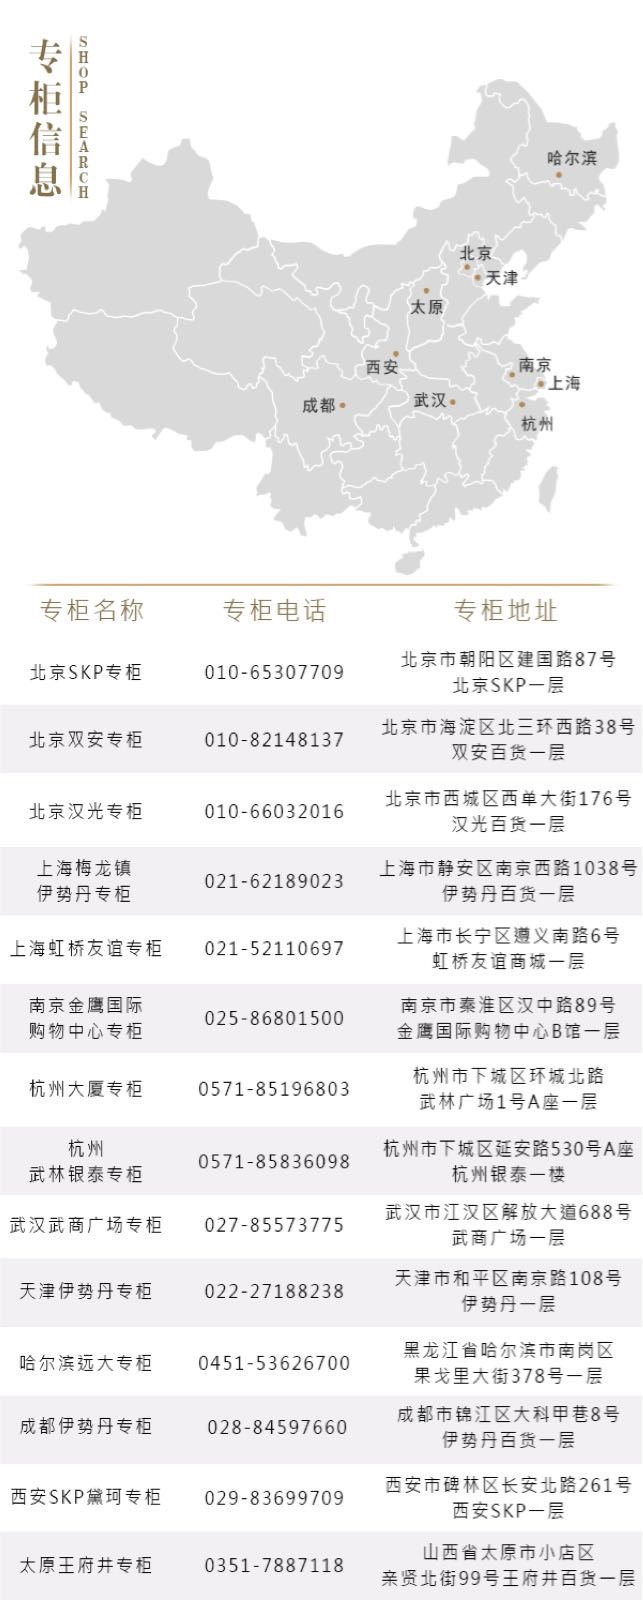
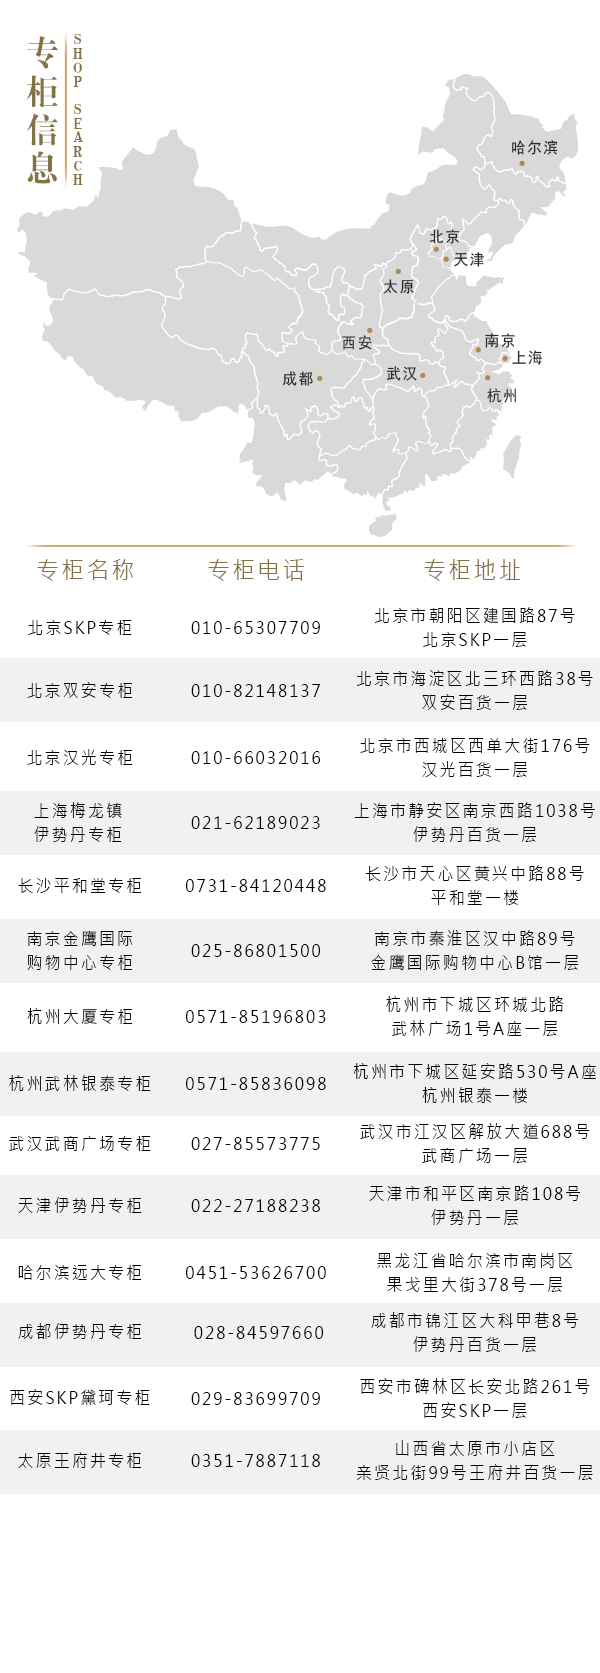
no message

diff --git a/www/web/shop.html b/www/web/shop.html
@@ -116,6 +116,9 @@
                 <div id="sh1" style="cursor:pointer">>西安SKP黛珂专柜</div>
             </div>
         -->
+		<div id="cs" class="point_color" style="position:absolute;top: 516px;left: 440px;border-radius: 15px;width: 8px;height: 8px;">
+
+		</div>
 
 		<div style="position:absolute;width:298px;top:210px;left:653px;background-color:rgb(245,245,245)">
 			<div id="share" style="width:298px;padding:5px 0">
@@ -153,6 +156,9 @@
 					<div id="xa_btn" style="border-radius: 15px;border: 1px solid rgb(201,201,201);padding: 3px 8px;float:left;margin-right: 7px;cursor:pointer;margin-top:10px">
 						西安
 					</div>
+					<div id="cs_btn" style="border-radius: 15px;border: 1px solid rgb(201,201,201);padding: 3px 8px;float:left;margin-right: 7px;cursor:pointer;margin-top:10px">
+						长沙
+					</div>
 					<div style="clear:both"></div>
 					<div id='address' style='padding:5px;text-align: left;line-height: 200%;font-size:12px;margin:5px 0;max-height: 250px;overflow: auto;'><div style='border-bottom:1px solid rgb(201,201,201);padding:5px 0'>北京SKP专柜<br>北京市朝阳区建国路87号北京SKP一层<br>电话：010-65307709</div><div style='border-bottom:1px solid rgb(201,201,201);padding:5px 0'>北京双安专柜<br>北京市海淀区北三环西路38号双安百货一层<br>电话：010-82148137</div><div style='padding:5px 0'>北京汉光专柜<br>北京市西城区西单大街176号汉光百货一层<br>电话：010-66032016</div>
 					</div>
@@ -183,6 +189,7 @@
                 $("#heb").css("background","black");
                 $("#cd").css("background","black");
                 $("#xa").css("background","black");
+                $("#cs").css("background","black");
 				$("#detail").append("<div id='address' style='padding:5px;text-align: left;line-height: 200%;font-size:12px;margin:5px 0;max-height: 250px;overflow: auto;'><div style='border-bottom:1px solid rgb(201,201,201);padding:5px 0'>北京SKP专柜<br>北京市朝阳区建国路87号北京SKP一层<br>电话：010-65307709</div><div style='border-bottom:1px solid rgb(201,201,201);padding:5px 0'>北京双安专柜<br>北京市海淀区北三环西路38号双安百货一层<br>电话：010-82148137</div><div style='padding:5px 0'>北京汉光专柜<br>北京市西城区西单大街176号汉光百货一层<br>电话：010-66032016</div>");
 			});
 			$("#sh_btn").click(function(){
@@ -197,7 +204,8 @@
                 $("#heb").css("background","black");
                 $("#cd").css("background","black");
                 $("#xa").css("background","black");
-				$("#detail").append("<div id='address' style='padding:5px;text-align: left;line-height: 200%;font-size:12px;margin:5px 0;max-height: 250px;overflow: auto;'><div style='border-bottom:1px solid rgb(201,201,201);padding:5px 0'>上海梅龙镇伊势丹专柜<br>上海市静安区南京西路1038号伊势丹百货一层<br>电话：021-62189023</div><div style='padding:5px 0'>上海虹桥友谊专柜<br>上海市长宁区遵义南路6号虹桥友谊商城一层<br>电话：021-52110697</div>");
+                $("#cs").css("background","black");
+				$("#detail").append("<div id='address' style='padding:5px;text-align: left;line-height: 200%;font-size:12px;margin:5px 0;max-height: 250px;overflow: auto;'><div style='border-bottom:1px solid rgb(201,201,201);padding:5px 0'>上海梅龙镇伊势丹专柜<br>上海市静安区南京西路1038号伊势丹百货一层<br>电话：021-62189023</div>");//<div style='padding:5px 0'>上海虹桥友谊专柜<br>上海市长宁区遵义南路6号虹桥友谊商城一层<br>电话：021-52110697</div>
 			});
 			$("#nj_btn").click(function(){
 				$("#address").remove();
@@ -211,6 +219,7 @@
                 $("#heb").css("background","black");
                 $("#cd").css("background","black");
                 $("#xa").css("background","black");
+                $("#cs").css("background","black");
 				$("#detail").append("<div id='address' style='padding:5px;text-align: left;line-height: 200%;font-size:12px;margin:5px 0;max-height: 250px;overflow: auto;'><div style='padding:5px 0'>南京金鹰国际购物中心专柜<br>南京市秦淮区汉中路89号金鹰国际购物中心B馆一层<br>电话：025-86801500</div>");
 			});
 			$("#hz_btn").click(function(){
@@ -225,6 +234,7 @@
                 $("#heb").css("background","black");
                 $("#cd").css("background","black");
                 $("#xa").css("background","black");
+                $("#cs").css("background","black");
 				$("#detail").append("<div id='address' style='padding:5px;text-align: left;line-height: 200%;font-size:12px;margin:5px 0;max-height: 250px;overflow: auto;'><div style='border-bottom:1px solid rgb(201,201,201);padding:5px 0'>杭州大厦专柜<br>杭州市下城区环城北路武林广场1号A座一层<br>电话：0571-85196803</div><div style='padding:5px 0'>杭州武林银泰专柜<br>杭州市下城区延安路530号A座杭州银泰一楼<br>电话：0571-85836098</div>");
 			});
 			$("#ty_btn").click(function(){
@@ -239,6 +249,7 @@
                 $("#heb").css("background","black");
                 $("#cd").css("background","black");
                 $("#xa").css("background","black");
+                $("#cs").css("background","black");
 				$("#detail").append("<div id='address' style='padding:5px;text-align: left;line-height: 200%;font-size:12px;margin:5px 0;max-height: 250px;overflow: auto;'><div style='padding:5px 0'>太原王府井专柜<br>山西省太原市小店区亲贤北街99号王府井百货一层<br>电话：0351-7887118</div>");
 			});
 			$("#wh_btn").click(function(){
@@ -253,6 +264,7 @@
                 $("#heb").css("background","black");
                 $("#cd").css("background","black");
                 $("#xa").css("background","black");
+                $("#cs").css("background","black");
 				$("#detail").append("<div id='address' style='padding:5px;text-align: left;line-height: 200%;font-size:12px;margin:5px 0;max-height: 250px;overflow: auto;'><div style='padding:5px 0'>武汉武商广场专柜<br>武汉市江汉区解放大道688号武商广场一层<br>电话：027-85573775</div>");
 			});
             $("#tj_btn").click(function(){
@@ -267,6 +279,7 @@
                 $("#heb").css("background","black");
                 $("#cd").css("background","black");
                 $("#xa").css("background","black");
+                $("#cs").css("background","black");
                 $("#detail").append("<div id='address' style='padding:5px;text-align: left;line-height: 200%;font-size:12px;margin:5px 0;max-height: 250px;overflow: auto;'><div style='border-bottom:1px solid rgb(201,201,201);padding:5px 0'>天津伊势丹专柜<br>天津市和平区南京路108号伊势丹一层<br>电话：022-27188238</div>");
             });
             $("#heb_btn").click(function(){
@@ -281,6 +294,7 @@
                 $("#heb").css("background","rgb(240,206,108)");
                 $("#cd").css("background","black");
                 $("#xa").css("background","black");
+                $("#cs").css("background","black");
                 $("#detail").append("<div id='address' style='padding:5px;text-align: left;line-height: 200%;font-size:12px;margin:5px 0;max-height: 250px;overflow: auto;'><div style='border-bottom:1px solid rgb(201,201,201);padding:5px 0'>哈尔滨专柜<br>黑龙江省哈尔滨市南岗区果戈里大街378号一层<br>电话：0451-53626700</div>");
             });
             $("#cd_btn").click(function(){
@@ -295,6 +309,7 @@
                 $("#heb").css("background","black");
                 $("#cd").css("background","rgb(240,206,108)");
                 $("#xa").css("background","black");
+                $("#cs").css("background","black");
                 $("#detail").append("<div id='address' style='padding:5px;text-align: left;line-height: 200%;font-size:12px;margin:5px 0;max-height: 250px;overflow: auto;'><div style='border-bottom:1px solid rgb(201,201,201);padding:5px 0'>成都伊势丹专柜<br>成都市锦江区大科甲巷8号伊势丹百货一层<br>电话：028-84597660</div>");
             });
             $("#xa_btn").click(function(){
@@ -309,7 +324,23 @@
                 $("#heb").css("background","black");
                 $("#cd").css("background","black");
                 $("#xa").css("background","rgb(240,206,108)");
+                $("#cs").css("background","black");
                 $("#detail").append("<div id='address' style='padding:5px;text-align: left;line-height: 200%;font-size:12px;margin:5px 0;max-height: 250px;overflow: auto;'><div style='border-bottom:1px solid rgb(201,201,201);padding:5px 0'>西安SKP黛珂专柜<br>西安市碑林区长安北路261号西安SKP一层<br>电话：029-83699709</div>");
+            });
+            $("#cs_btn").click(function(){
+                $("#address").remove();
+                $("#bj").css("background","black");
+                $("#sh").css("background","black");
+                $("#nj").css("background","black");
+                $("#hz").css("background","black");
+                $("#ty").css("background","black");
+                $("#wh").css("background","black");
+                $("#tj").css("background","black");
+                $("#heb").css("background","black");
+                $("#cd").css("background","black");
+                $("#xa").css("background","black");
+                $("#cs").css("background","rgb(240,206,108)");
+                $("#detail").append("<div id='address' style='padding:5px;text-align: left;line-height: 200%;font-size:12px;margin:5px 0;max-height: 250px;overflow: auto;'><div style='border-bottom:1px solid rgb(201,201,201);padding:5px 0'>长沙平和堂专柜<br>长沙市天心区黄兴中路88号平和堂一楼<br>电话：0731-84120448</div>");
             });
 		/*
 			$("#bj1").hover(function(){

diff --git a/www/web/templates/main/indexSuccess.php b/www/web/templates/main/indexSuccess.php
@@ -115,7 +115,7 @@
 <div class="right_first">
     <div class="news__20160715a l--poster white" id="news__20160715a">
         <div class="l--poster__container">
-            <a href="/ip_shot/">
+            <a href="/product/ip_shot/JVSH?log=n0V0AIylkG8">
                 <div class="image-base"></div>
             </a>
         </div>
@@ -176,7 +176,7 @@
 <div class="news">
     <div class="l-container">
         <ul class="news__list">
-            <li class="news__list__item bl news__20161201a" id="news__20161201a"><a href="news.html?section=newitem/#newitem-20180922"><br><!--<span style="border-bottom:1px solid black;padding:0">新色</span>--><br>黛珂 <br>抗皱抚痕精华液</a></li>
+            <li class="news__list__item bl news__20161201a" id="news__20161201a"><a href="news.html?section=newitem/#newitem-20180922"><br><!--<span style="border-bottom:1px solid black;padding:0">新色</span>--><span style="border-bottom:1px solid black;padding:0">新商品</span><br>黛珂 <br>抗皱抚痕精华液</a></li>
             <li class="news__list__item bl news__20161016c" id="news__20161016c"><a href="news.html?section=newitem/#newitem-20170901a" style="color:black"><br><span style="border-bottom:1px solid black;padding:0">新商品</span><br>黛珂<br>多重防晒乳<br>（防晒乳液）</a></li>
         </ul>
         <!--<ul class="news__list">
